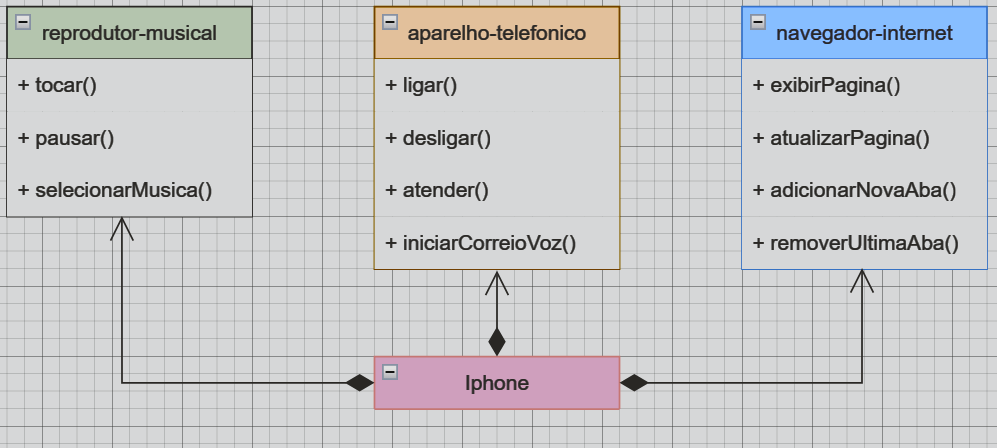
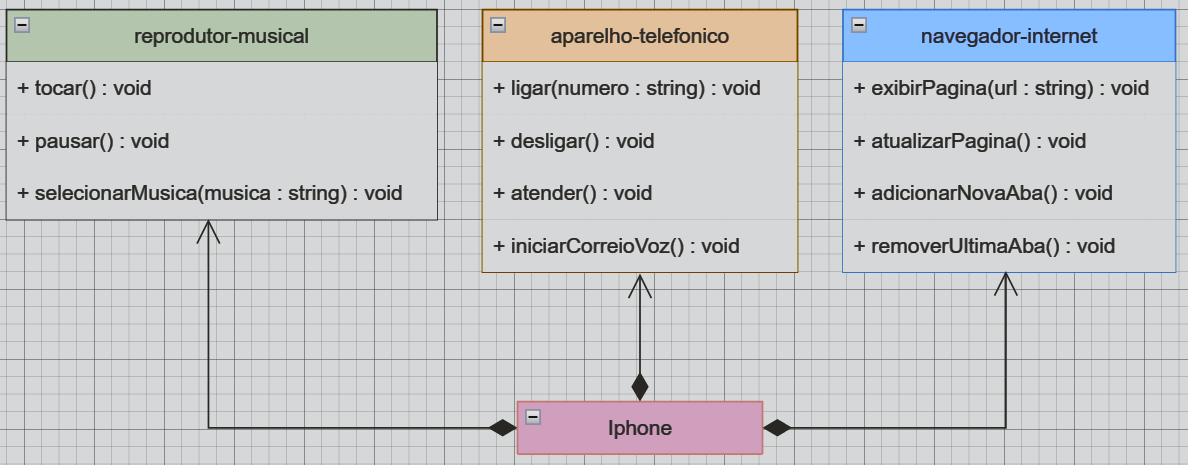
corrigindo funcoes e UML

Changed region(s): [[0.0, 0.0, 1.0, 1.0], [0.995, 0.2812, 1.0, 0.375], [0.995, 0.4688, 1.0, 0.5]]

diff --git a/Iphone/src/Celular.java b/Iphone/src/Celular.java
@@ -8,16 +8,16 @@ public class Celular implements ReprodutorMusical, AparelhoTelefonico, Navegador
         System.out.println("PAUSANDO MUSICA");    
     }
 
-    public void selecionarMusica() {
-        System.out.println("SELECIONANDO MUSICA"); 
+    public void selecionarMusica(String musica) {
+        System.out.println("SELECIONANDO MUSICA: " + musica); 
     }
 
-    public void ligar() {
-        System.out.println("LIGANDO IPHONE"); 
+    public void ligar(String numero) {
+        System.out.println("LIGANDO PARA NUMERO: " + numero); 
     }
 
     public void desligar() {
-        System.out.println("DESLIGANDO IPHONE"); 
+        System.out.println("DESLIGANDO A LIGAÇÃO"); 
     }
 
     public void atender() {
@@ -28,8 +28,8 @@ public class Celular implements ReprodutorMusical, AparelhoTelefonico, Navegador
         System.out.println("INICIANDO CORREIO DE VOZ"); 
     }
 
-    public void exibirPagina() {
-        System.out.println("EXIBINDO PAGINA"); 
+    public void exibirPagina(String url) {
+        System.out.println("EXIBINDO PAGINA: " + url); 
     }
 
     public void atualizarPagina() {

diff --git a/Iphone/src/Iphone.java b/Iphone/src/Iphone.java
@@ -1,8 +1,8 @@
 public class Iphone extends Celular {
     public static void main(String[] args) {
         Iphone iphone = new Iphone();
-        iphone.ligar();
-        iphone.exibirPagina();
+        iphone.ligar("98238713");
+        iphone.exibirPagina("www.google.com");
         iphone.iniciarCorreioVoz();
         iphone.desligar();
     }

diff --git a/Iphone/src/NavegadorInternet.java b/Iphone/src/NavegadorInternet.java
@@ -1,5 +1,5 @@
 public interface  NavegadorInternet {
-    public void exibirPagina();
+    public void exibirPagina(String url);
     public void atualizarPagina();
     public void adicionarNovaAba();
     public void removerUltimaAba();

diff --git a/Iphone/src/AparelhoTelefonico.java b/Iphone/src/AparelhoTelefonico.java
@@ -1,5 +1,5 @@
 public interface  AparelhoTelefonico {
-    public void ligar();
+    public void ligar(String numero);
     public void desligar();
     public void atender();
     public void iniciarCorreioVoz();

diff --git a/Iphone/src/ReprodutorMusical.java b/Iphone/src/ReprodutorMusical.java
@@ -1,5 +1,5 @@
 public interface  ReprodutorMusical {
     public void tocar();
     public void pausar();
-    public void selecionarMusica();
+    public void selecionarMusica(String musica);
 }
